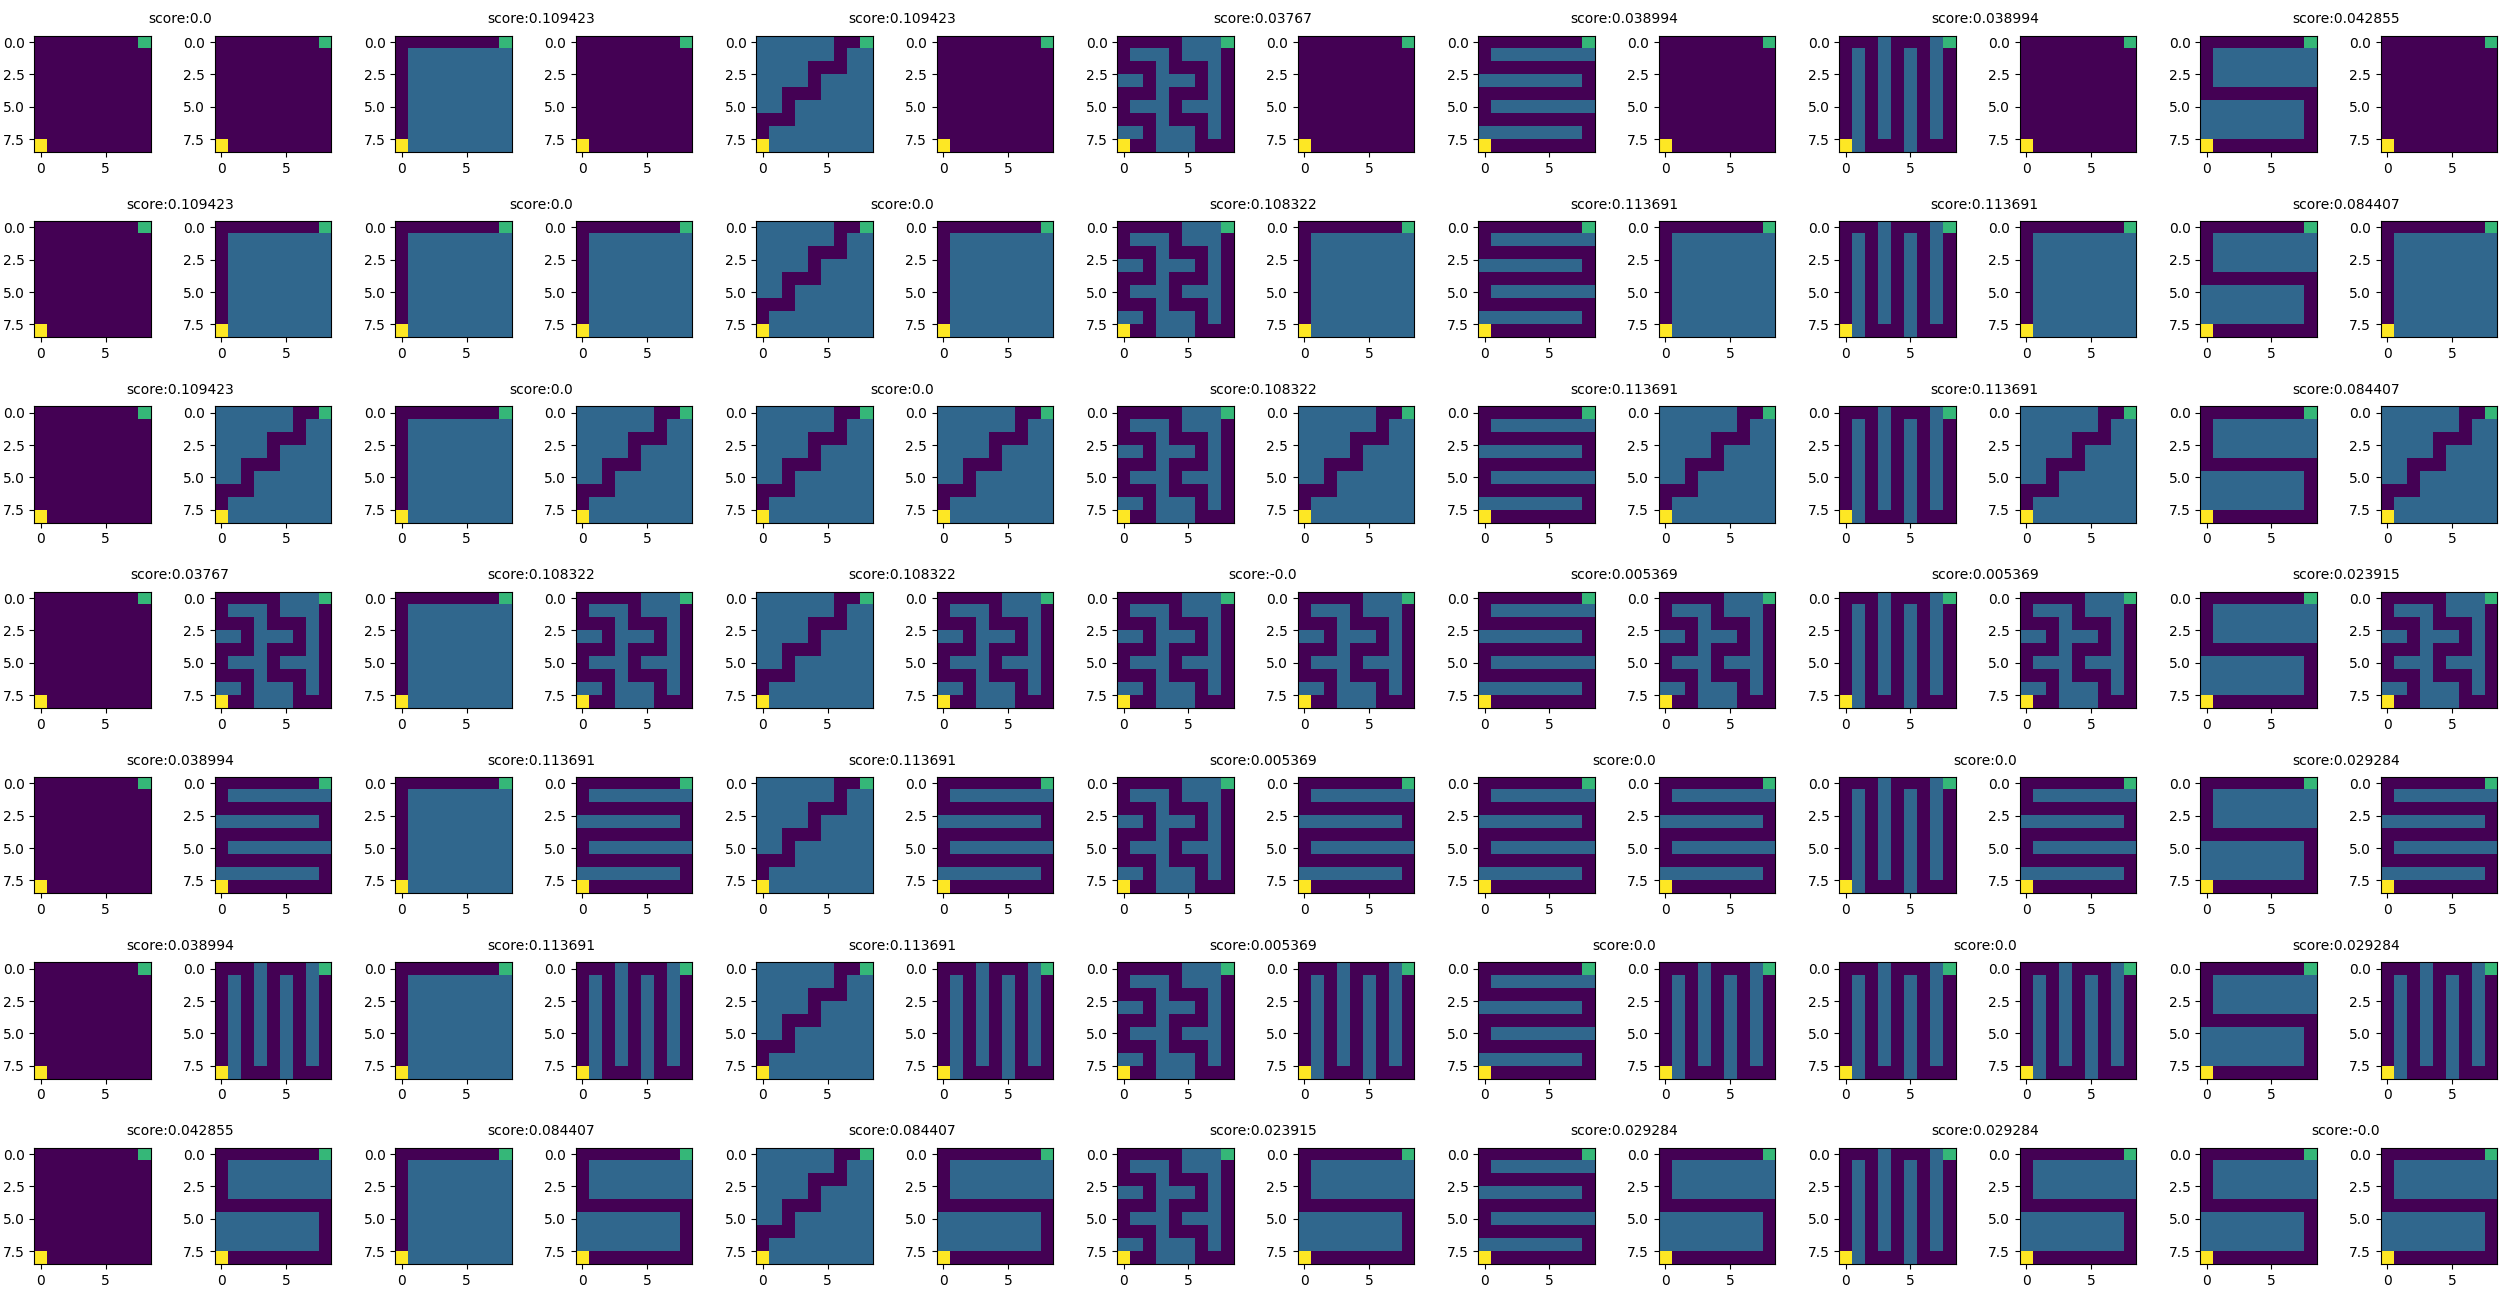
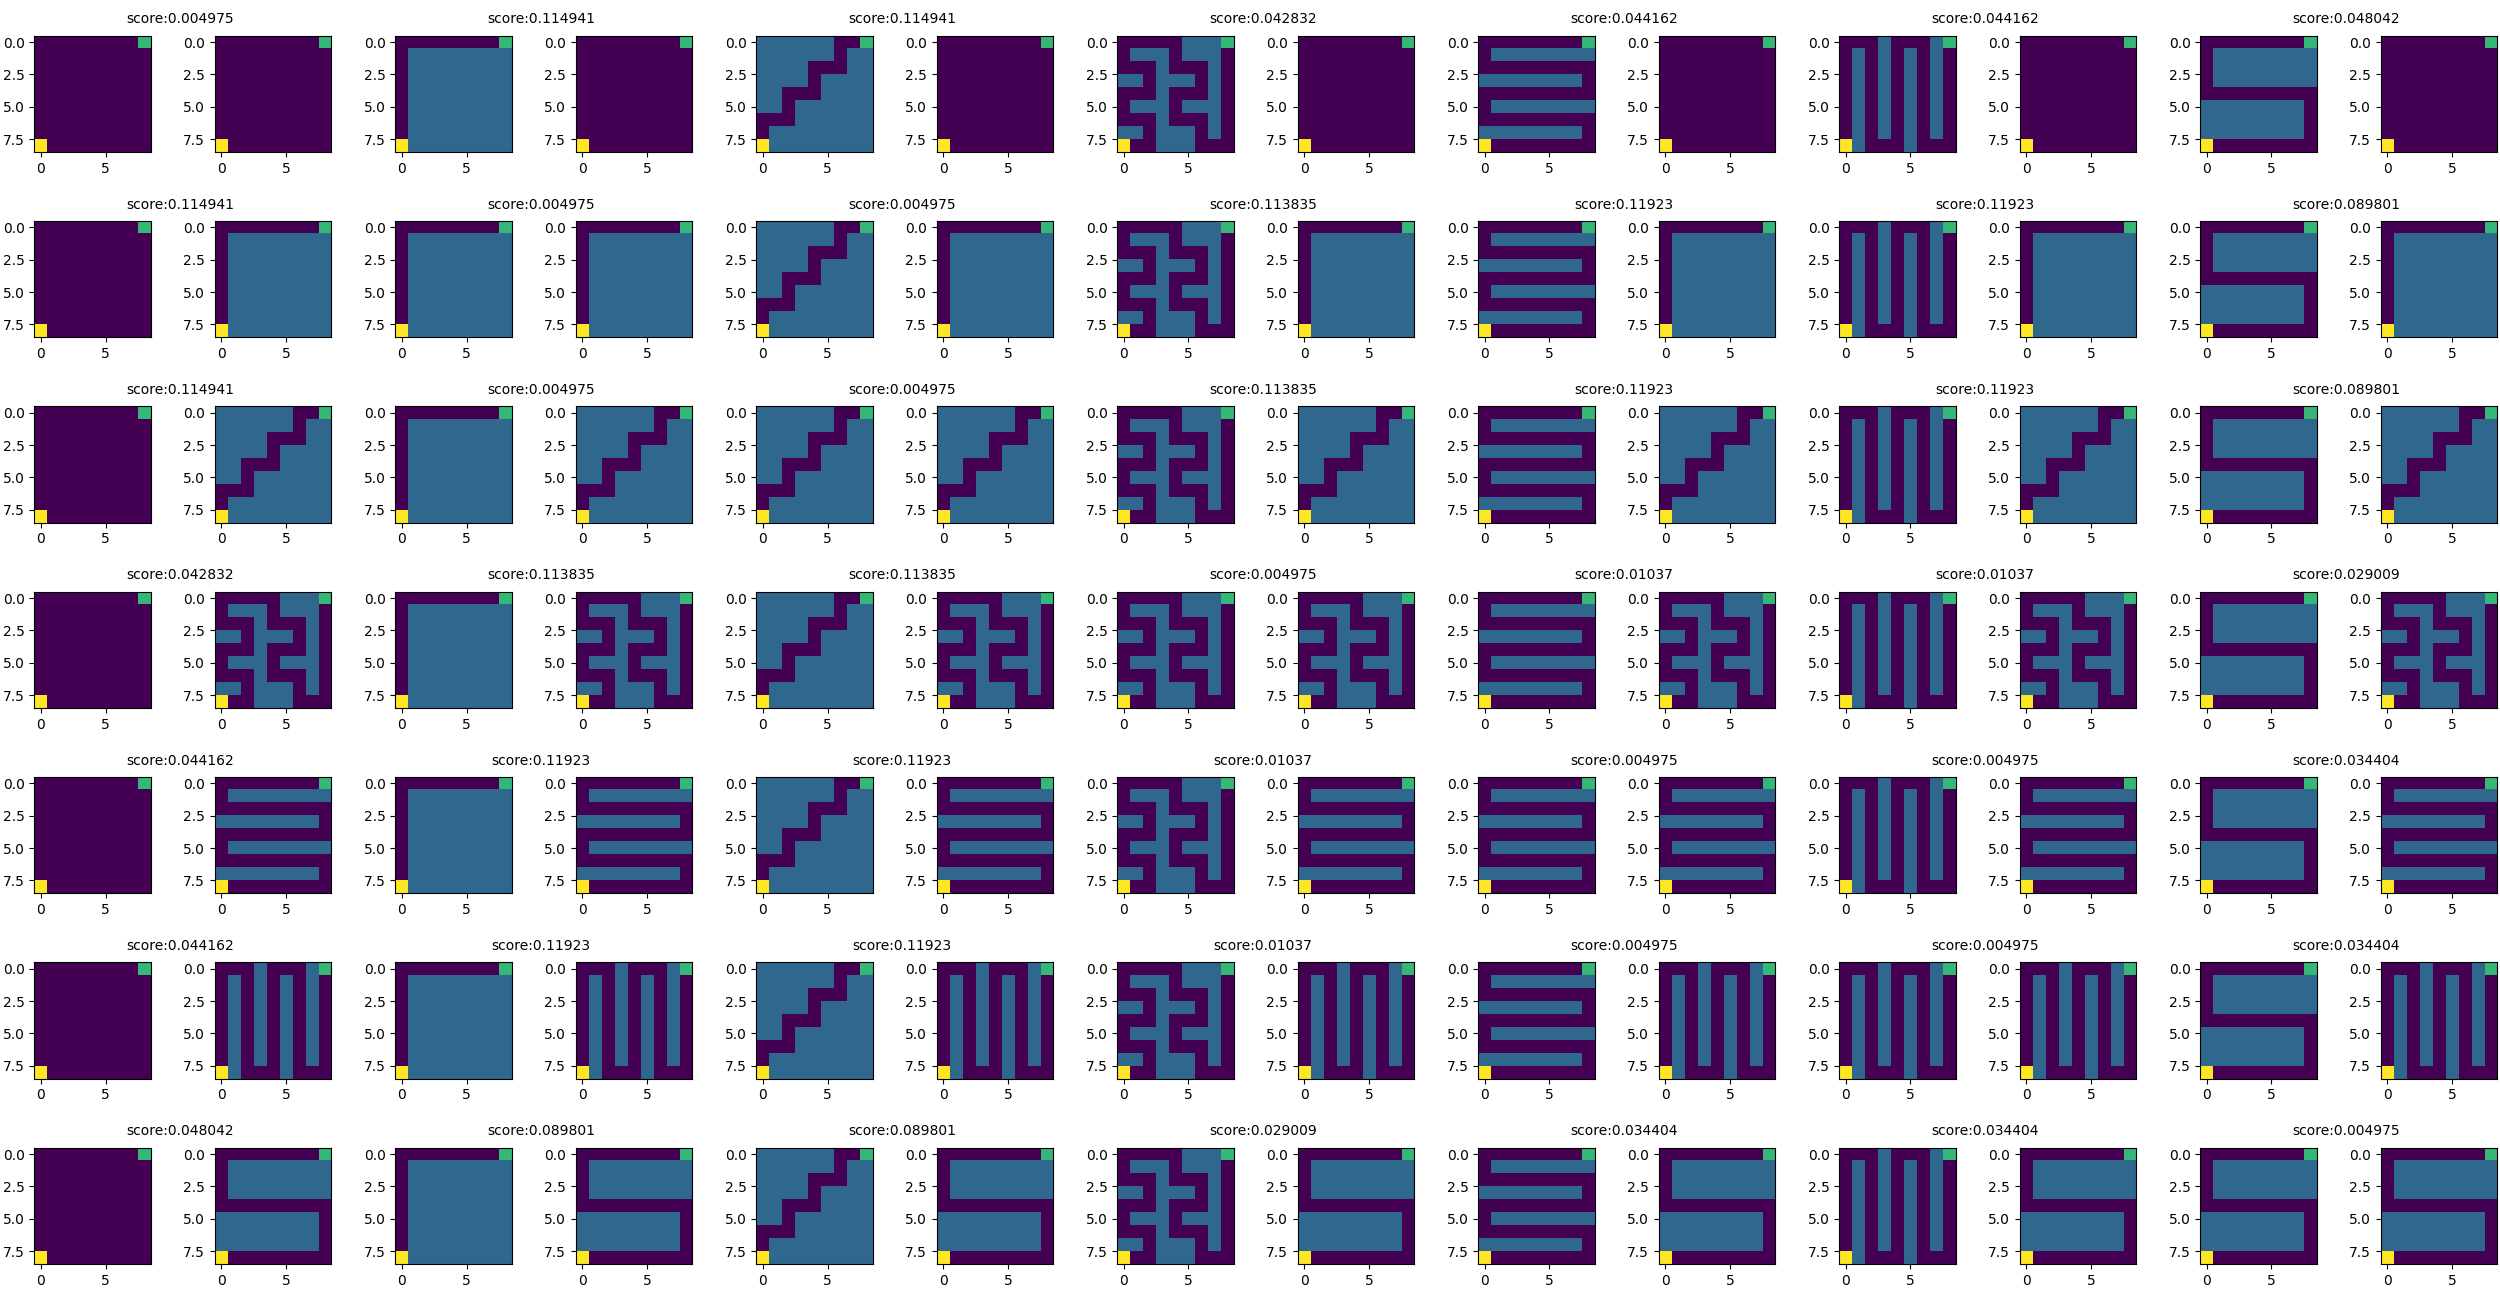
iterating through algo options

diff --git a/tasksim/transfer_exp1.py b/tasksim/transfer_exp1.py
@@ -15,12 +15,28 @@ from tasksim.qtrainer import *
 
 ARG_DICT = None
 STRAT = gen.ActionStrategy.NOOP_EFFECT_COMPRESS
-RESULTS_DIR = 'results_tmp'
+RESULTS_DIR = 'results_transfer'
+
+ALGO_CHOICES = ['both', 'new', 'song', 'new_dist', 'new_dist_normalize']
+NEW_ALGOS = ['new', 'new_dist', 'new_dist_normalize']
+
+def init_algo(metric):
+    if metric == 'new':
+        sim.REWARD_STRATEGY = sim.RewardStrategy.NORMALIZE_INDEPENDENT
+        sim.COMPUTE_DISTANCE = False
+    elif metric == 'new_dist':
+        sim.REWARD_STRATEGY = sim.RewardStrategy.NOOP
+        sim.COMPUTE_DISTANCE = True
+    elif metric == 'new_dist_normalize':
+        sim.REWARD_STRATEGY = sim.RewardStrategy.NORMALIZE_INDEPENDENT
+        sim.COMPUTE_DISTANCE = True
+    elif metric == 'song':
+        # No special options 
+        pass
 
 # Hyper parameters for qtrainer
 GAMMA = 0.1
 TEST_ITER = int(1e5)
-
 
 
 # From https://stackoverflow.com/a/54628145
@@ -115,6 +131,7 @@ def weight_transfer(target_env: MDPGraphEnv, source_envs: List, sim_mats: List, 
                     target_actions = target_env.graph.out_s[target_state]
                     action_subset = action_sim[source_actions].T[target_actions].T
                     action_mat = sim.sim_matrix(action_subset.copy())
+                    #import pdb; pdb.set_trace()
                     assert action_mat[action_mat != 0].size == n_actions, 'Unexpected number of entries'
                     col_order = np.argmax(action_mat, axis=1)
                 
@@ -125,6 +142,8 @@ def weight_transfer(target_env: MDPGraphEnv, source_envs: List, sim_mats: List, 
 
 
 def perform_exp(metric, dim, prob, num_mazes, seed, obs_max, reward, restore=False):
+    init_algo(metric)
+
     prng = np.random.RandomState(seed)
     print(f'called with {metric}, {dim}, {prob}, {num_mazes}, {seed}')
     target_env, source_envs = create_envs(num_mazes, dim, prob, prng, obs_max, reward)
@@ -182,7 +201,7 @@ def perform_exp(metric, dim, prob, num_mazes, seed, obs_max, reward, restore=Fal
         print('Caching sim/dist matrices...')
         for idx, env in enumerate(source_envs):
             print(f'Comparing MDP {idx} / {len(source_envs)}...')
-            if metric == 'new':
+            if metric in NEW_ALGOS:
                 D, A, _, _ = env.graph.compare(target_env.graph)
                 score = sim.final_score(D)
                 sim_mat = sim.sim_matrix(D)
@@ -204,7 +223,6 @@ def perform_exp(metric, dim, prob, num_mazes, seed, obs_max, reward, restore=Fal
             data = pickle.load(f)
     
     
-    
     # Now, do the actual weight transfer
     # TODO: measure performance, average many results lol
     n_trials = 10
@@ -219,7 +237,7 @@ def perform_exp(metric, dim, prob, num_mazes, seed, obs_max, reward, restore=Fal
         for sim_mat, score, trainer in zip(data['sim_mats'], data['scores'], trainers):
             source_Q = trainer.Q
             label = f'{metric}_{idx}'
-            if metric == 'new':
+            if metric in NEW_ALGOS:
                 action_sim = data['action_sims'][idx]
             else:
                 action_sim = None
@@ -265,8 +283,8 @@ def perform_exp(metric, dim, prob, num_mazes, seed, obs_max, reward, restore=Fal
 # Experiment sent on slack: dim 9, prob 1.0, num 8, obsmax 0.5 [annealing starts at 0.2 epsilon, decay 5.0/num_iters]
 if __name__ == '__main__':
     parser = argparse.ArgumentParser()
-    metric_choices = ['both', 'new', 'song']
-    parser.add_argument('--metric', default=metric_choices[0], choices=metric_choices, help='Which metric to use.')
+    parser.add_argument('--metric', default=ALGO_CHOICES[0], choices=ALGO_CHOICES, help='Which metric to use.')
+    parser.add_argument('--results', help='Result directory', default='results_transfer')
     parser.add_argument('--seed', help='Specifies seed for the RNG', default=3257823)
     parser.add_argument('--dim', help='Side length of mazes, for RNG', default=13)
     parser.add_argument('--num', help='Number of source mazes to randomly generate', default=16)
@@ -288,13 +306,17 @@ if __name__ == '__main__':
     restore = args.restore
     obs_max = float(args.obsmax)
     reward = float(args.reward)
+    results = args.results
+    RESULTS_DIR = results
 
     ARG_DICT = vars(args)
 
     bound = lambda metric: perform_exp(metric, dim, prob, num_mazes, seed, obs_max, reward, restore=restore)
     if metric == 'both':
-        bound('new')
-        bound('song')
+        for metric in ALGO_CHOICES:
+            if metric == 'both':
+                continue
+            bound(metric)
     else:
         bound(metric)
     

diff --git a/tasksim/structural_similarity.py b/tasksim/structural_similarity.py
@@ -26,7 +26,7 @@ DEFAULT_CS = 0.995
 STOP_ATOL = 1e-4
 STOP_RTOL = 1e-3
 
-DO_NORMALIZE_SCORE = True
+DO_NORMALIZE_SCORE = False
 
 class RewardStrategy(Enum):
     NOOP = 1
@@ -144,7 +144,7 @@ def compute_a_py_full(chunk, reward_diffs, actions1, actions2, D_s, c_a, emd_max
                           to_ptr(chunk), to_ptr(reward_diffs), to_ptr(actions1), to_ptr(actions2), to_ptr(D_s),
                           to_ptr(entries),
                           np.float64(c_a), int(emd_maxiters))
-    return entries if COMPUTE_DISTANCE else 1 - entries
+    return entries
 
 
 # Returns the action-action distances, or similarities, taking in the state-state distances
@@ -155,7 +155,7 @@ def compute_a(chunk, reward_diffs, actions1, actions2, one_minus_S, c_a, emd_max
 
 # Returns the state-to-state distances or similarities, taking in the action-action distances
 @ray.remote
-def compute_s(chunk, out_S1, out_S2, one_minus_A, one_minus_A_transpose, c_s):
+def compute_s(chunk, out_S1, out_S2, one_minus_A, one_minus_A_transpose, c_s, compute_distance):
     # one_minus_A is the action-action distances
     chunk_n1, chunk_n2, _ = chunk.shape
     count = -1
@@ -173,15 +173,15 @@ def compute_s(chunk, out_S1, out_S2, one_minus_A, one_minus_A_transpose, c_s):
                 # obstacle-obstacle, goal-goal, obstacle-goal, goal-obstacle all have MAX similarity
                 # obstacle-normal, goal-normal all have MIN similarity
                 if not len(out_S1[u]) and not len(out_S2[v]):
-                    entry = 0 if COMPUTE_DISTANCE else c_s
+                    entry = 0 if compute_distance else c_s
                 else:
                     # Passing in doubles
-                    entry = c_s*np.finfo(np.float64).max if COMPUTE_DISTANCE else 0
+                    entry = c_s*np.finfo(np.float64).max if compute_distance else 0
             else:
                 haus1 = directed_hausdorff_numpy(one_minus_A, out_S1[u], out_S2[v])
                 haus2 = directed_hausdorff_numpy(one_minus_A_transpose, out_S2[v], out_S1[u])
                 haus = max(haus1, haus2)
-                entry = c_s * (haus if COMPUTE_DISTANCE else (1 - haus))
+                entry = c_s * (haus if compute_distance else (1 - haus))
             entries[count] = entry
     return entries
 
@@ -308,6 +308,8 @@ def cross_structural_similarity(action_dists1, action_dists2, reward_matrix1, re
                                 out_neighbors_S2, c_a=DEFAULT_CA, c_s=DEFAULT_CS, stop_rtol=STOP_RTOL,
                                 stop_atol=STOP_ATOL, max_iters=1e5,
                                 init_strategy: InitStrategy = InitStrategy.ONES, self_similarity=False):
+    global COMPUTE_DISTANCE
+    global REWARD_STRATEGY
     cpus = get_num_cpu()
     n_actions1, n_states1 = action_dists1.shape
     n_actions2, n_states2 = action_dists2.shape
@@ -421,6 +423,7 @@ def cross_structural_similarity(action_dists1, action_dists2, reward_matrix1, re
 
         remoted_a = [bind_compute_a(chunk) for chunk in action_chunks]
         new_A = np.concatenate([ray.get(x) for x in remoted_a]).reshape((n_actions1, n_actions2))
+        new_A = new_A if COMPUTE_DISTANCE else 1 - new_A
         A[new_A >= 0] = new_A[new_A >= 0]
         # Make symmetric if needed
         if self_similarity:
@@ -431,13 +434,14 @@ def cross_structural_similarity(action_dists1, action_dists2, reward_matrix1, re
         # AT THIS POINT, A is a distance matrix
         # each entry in A computed by (1 - c_a)*d_rwd - (1 - c_a)*d_emd
 
+        # TODO: should these still be 1 - A
         D_a = A if COMPUTE_DISTANCE else 1 - A
         D_a_transpose = A.T if COMPUTE_DISTANCE else 1 - A.T
         D_a_id = ray.put(D_a)
         D_a_transpose_id = ray.put(D_a_transpose)
         bind_compute_s = lambda chunk: compute_s.remote(chunk, out_S1_id, out_S2_id,
                                                         D_a_id, D_a_transpose_id,
-                                                        c_s)
+                                                        c_s, COMPUTE_DISTANCE)
         remoted_s = [bind_compute_s(chunk) for chunk in state_chunks]
         new_S = np.concatenate([ray.get(x) for x in remoted_s]).reshape((n_states1, n_states2))
         S[new_S >= 0] = new_S[new_S >= 0]

diff --git a/tasksim/mazes.py b/tasksim/mazes.py
@@ -140,6 +140,10 @@ if __name__ == '__main__':
             for j in range(len(envs)):
                 print(i, j, '...')
                 score, S = dist_score(envs[i], envs[j], metric=metric, detailed=True)
+                if i == 1 and j == 2:
+                    G1 = envs[i].graph
+                    G2 = envs[j].graph
+                    import pdb; pdb.set_trace()
                 score = float(precision_str % score)
                 unique_scores.add(score)
                 scores.append(score)
